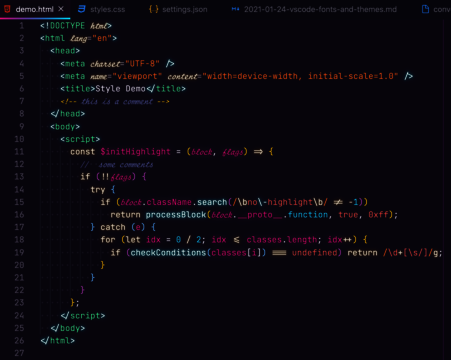
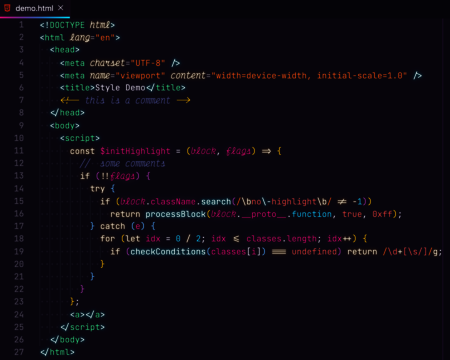
Update covers, and font

diff --git a/assets/misc/2021-01-24-vscode-dual-fonts/styles.css b/assets/misc/2021-01-24-vscode-dual-fonts/styles.css
@@ -1,5 +1,6 @@
 .type.storage,.type.storage.declaration, .storage.class.modifier, .mtki {
-  font-family: 'Script12 BT';
+  font-family: 'Victor Mono';
+  font-size: 1.1em;
 }
 
 .type.storage.arrow.function {
@@ -7,12 +8,15 @@
 }
 
 .decorator.name, .decorator.punctuation:not(.block), .import.keyword {
-    font-family: 'Script12 BT';
+    font-family: 'Victor Mono';
+    font-size: 1.1em
 }
 .attribute-name {
-    font-family: 'Script12 BT';
+    font-family: 'Victor Mono';
+    font-size: 1.1em
 }
 
 .comment:not(.punctuation) {
-    font-family: Script12 BT;
+    font-family: 'Victor Mono';
+    font-size: 1.1em
 }

diff --git a/_posts/2021-01-24-vscode-dual-fonts.md b/_posts/2021-01-24-vscode-dual-fonts.md
@@ -11,8 +11,6 @@ image:
     1800w: /assets/img/posts/2021-01-24-vscode-fonts-and-themes/cover.png
     900w: /assets/img/posts/2021-01-24-vscode-fonts-and-themes/cover@0,5x.png
     450w: /assets/img/posts/2021-01-24-vscode-fonts-and-themes/cover@0,25x.png
-related_posts:
-  - /posts/2021-01-24-vscode-fonts-and-themes
 ---
 
 Like the fonts in the cover image? Want to use any two fonts, with one being
@@ -27,7 +25,7 @@ The theme used (that has an option for the glow effect, which I enabled) is
 {:.lead}
 
 1. If not already installed, download and install desired fonts. I'm using
-   [JetBrains Mono](https://www.jetbrains.com/lp/mono/)for my main font and [Script12 BT](https://www.dafontfree.net/freefonts-script12-bt-f141942.htm)
+   [JetBrains Mono](https://www.jetbrains.com/lp/mono/)for my main font and [Victor Mono](https://rubjo.github.io/victor-mono/)
    but feel free to use whatever you'd like. A lot of people like [Fira Code](https://github.com/tonsky/FiraCode#download--install)
    instead of JetBrains Mono
    1. Unzip the downloaded archive
@@ -81,7 +79,7 @@ The theme used (that has an option for the glow effect, which I enabled) is
             - Example: `file:///C:/Users/MyUserName/Desktop/styles.css`
          - Mac or Linux
             - Example "file:///Users/MyUserName/Desktop/style.css"
-7. Install the extension, [Fix VSCode Checksums](https://marketplace.visualstudio.com/items?itemName=lehni.vscode-fix-checksums)
+7. Install the extension, [Fix VSCode Checksums](https://marketplace.visualstudio.com/items?itemName=lehni.vscode-fix-checksums) this will remove the error, "Your code installation appears to be corrupt"
 8. In the command palette (view>command pallet), run `Reload Custom CSS and JS`
 9. In the command palette, run `Fix Checksums: Apply`
 10. Restart VS Code by exiting, not reloading, VS Code and, start it back up.

diff --git a/_posts/2021-01-24-vscode-fonts-and-themes.md b/_posts/2021-01-24-vscode-fonts-and-themes.md
@@ -11,6 +11,8 @@ image:
     1800w: /assets/img/posts/2021-01-24-vscode-fonts-and-themes/cover.png
     900w:  /assets/img/posts/2021-01-24-vscode-fonts-and-themes/cover@0,5x.png
     450w:  /assets/img/posts/2021-01-24-vscode-fonts-and-themes/cover@0,25x.png
+related_posts:
+  - /posts/2021-01-24-vscode-dual-fonts/
 ---
 
 I'm going to give some options for styling your vscode. We use VS Code daily,
@@ -18,9 +20,9 @@ all day long. Why not set the icons, fonts, and theme to a style you like best?
 Your eyes will thank you!
 
 The cover image actually uses a combination of two fonts, [JetBrains Mono](https://www.jetbrains.com/lp/mono/)
-& [Script12 BT](https://www.dafontfree.net/freefonts-script12-bt-f141942.htm)! It also
-done using some trickery but I'll be sharing how in a how-to coming later, stay
-tuned! The theme is [SynthWave '84](https://marketplace.visualstudio.com/items?itemName=RobbOwen.synthwave-vscode)
+& [Victor Mono](https://rubjo.github.io/victor-mono/)! It is done using some
+trickery [read about it here](/blog/2021-01-24-vscode-dual-fonts/). The theme is
+[SynthWave '84](https://marketplace.visualstudio.com/items?itemName=RobbOwen.synthwave-vscode)
 with the glow enabled.
 {:.note}
 
